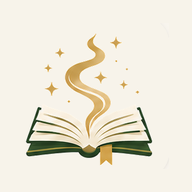
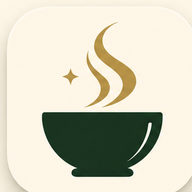
feat: adopt final bowl branding (#58)

diff --git a/web/src/app/layout.tsx b/web/src/app/layout.tsx
@@ -1,5 +1,9 @@
 import type { Metadata, Viewport } from "next"
-import { Outfit, Playfair_Display } from "next/font/google"
+import {
+  Cormorant_Garamond,
+  Outfit,
+  Playfair_Display,
+} from "next/font/google"
 import { headers } from "next/headers"
 import "./globals.css"
 import { Providers } from "@/components/providers"
@@ -14,6 +18,12 @@ const playfair = Playfair_Display({
   subsets: ["latin"],
   weight: "700",
   variable: "--font-playfair",
+})
+const cormorantGaramond = Cormorant_Garamond({
+  subsets: ["latin"],
+  weight: "600",
+  style: "normal",
+  variable: "--font-cormorant-garamond",
 })
 
 export const metadata: Metadata = {
@@ -68,7 +78,14 @@ export default async function RootLayout({
   await headers()
 
   return (
-    <html lang="en" className={cn(outfit.variable, playfair.variable)}>
+    <html
+      lang="en"
+      className={cn(
+        outfit.variable,
+        playfair.variable,
+        cormorantGaramond.variable
+      )}
+    >
       <body className={cn(outfit.className, "min-h-screen overflow-x-hidden")}>
         <div className="min-h-screen min-w-0">
           <Providers>{children}</Providers>

diff --git a/web/src/components/layout/header.tsx b/web/src/components/layout/header.tsx
@@ -58,10 +58,10 @@ export function Header({
             >
               <div className="flex h-9 w-9 flex-shrink-0 items-center justify-center">
                 <Image
-                  src="/recipe-genie-mark-approved.png"
+                  src="/recipe-genie-mark.png"
                   alt=""
-                  width={27}
-                  height={32}
+                  width={28}
+                  height={34}
                   className="h-8 w-auto"
                   loading="eager"
                   unoptimized
@@ -69,7 +69,10 @@ export function Header({
                   data-slot="recipe-genie-mark"
                 />
               </div>
-              <h1 className="font-display text-xl sm:text-2xl text-primary flex-shrink-0">
+              <h1
+                className="font-brand flex-shrink-0 text-[1.375rem] font-semibold leading-none tracking-[-0.015em] text-primary sm:text-[1.75rem]"
+                data-slot="recipe-genie-wordmark"
+              >
                 Recipe Genie
               </h1>
             </Link>

diff --git a/web/src/components/layout/__tests__/route-navigation.test.tsx b/web/src/components/layout/__tests__/route-navigation.test.tsx
@@ -30,9 +30,14 @@ describe("route navigation", () => {
       <Header userEmail="user@example.com" onSignOut={vi.fn()} />
     )
 
+    const brandMark = container.querySelector(
+      '[data-slot="recipe-genie-mark"]'
+    )
+    expect(brandMark).toBeInTheDocument()
+    expect(brandMark).toHaveAttribute("src", "/recipe-genie-mark.png")
     expect(
-      container.querySelector('[data-slot="recipe-genie-mark"]')
-    ).toBeInTheDocument()
+      container.querySelector('[data-slot="recipe-genie-wordmark"]')
+    ).toHaveTextContent("Recipe Genie")
 
     const recipes = screen.getByRole("link", { name: "Recipes" })
     expect(recipes).toHaveAttribute("href", "/recipes")

diff --git a/web/tailwind.config.ts b/web/tailwind.config.ts
@@ -108,6 +108,7 @@ const config: Config = {
         xl: "1.25rem",
       },
       fontFamily: {
+        brand: ["var(--font-cormorant-garamond)", "serif"],
         display: ["var(--font-playfair)", "serif"],
         sans: ["var(--font-outfit)", "sans-serif"],
       },
